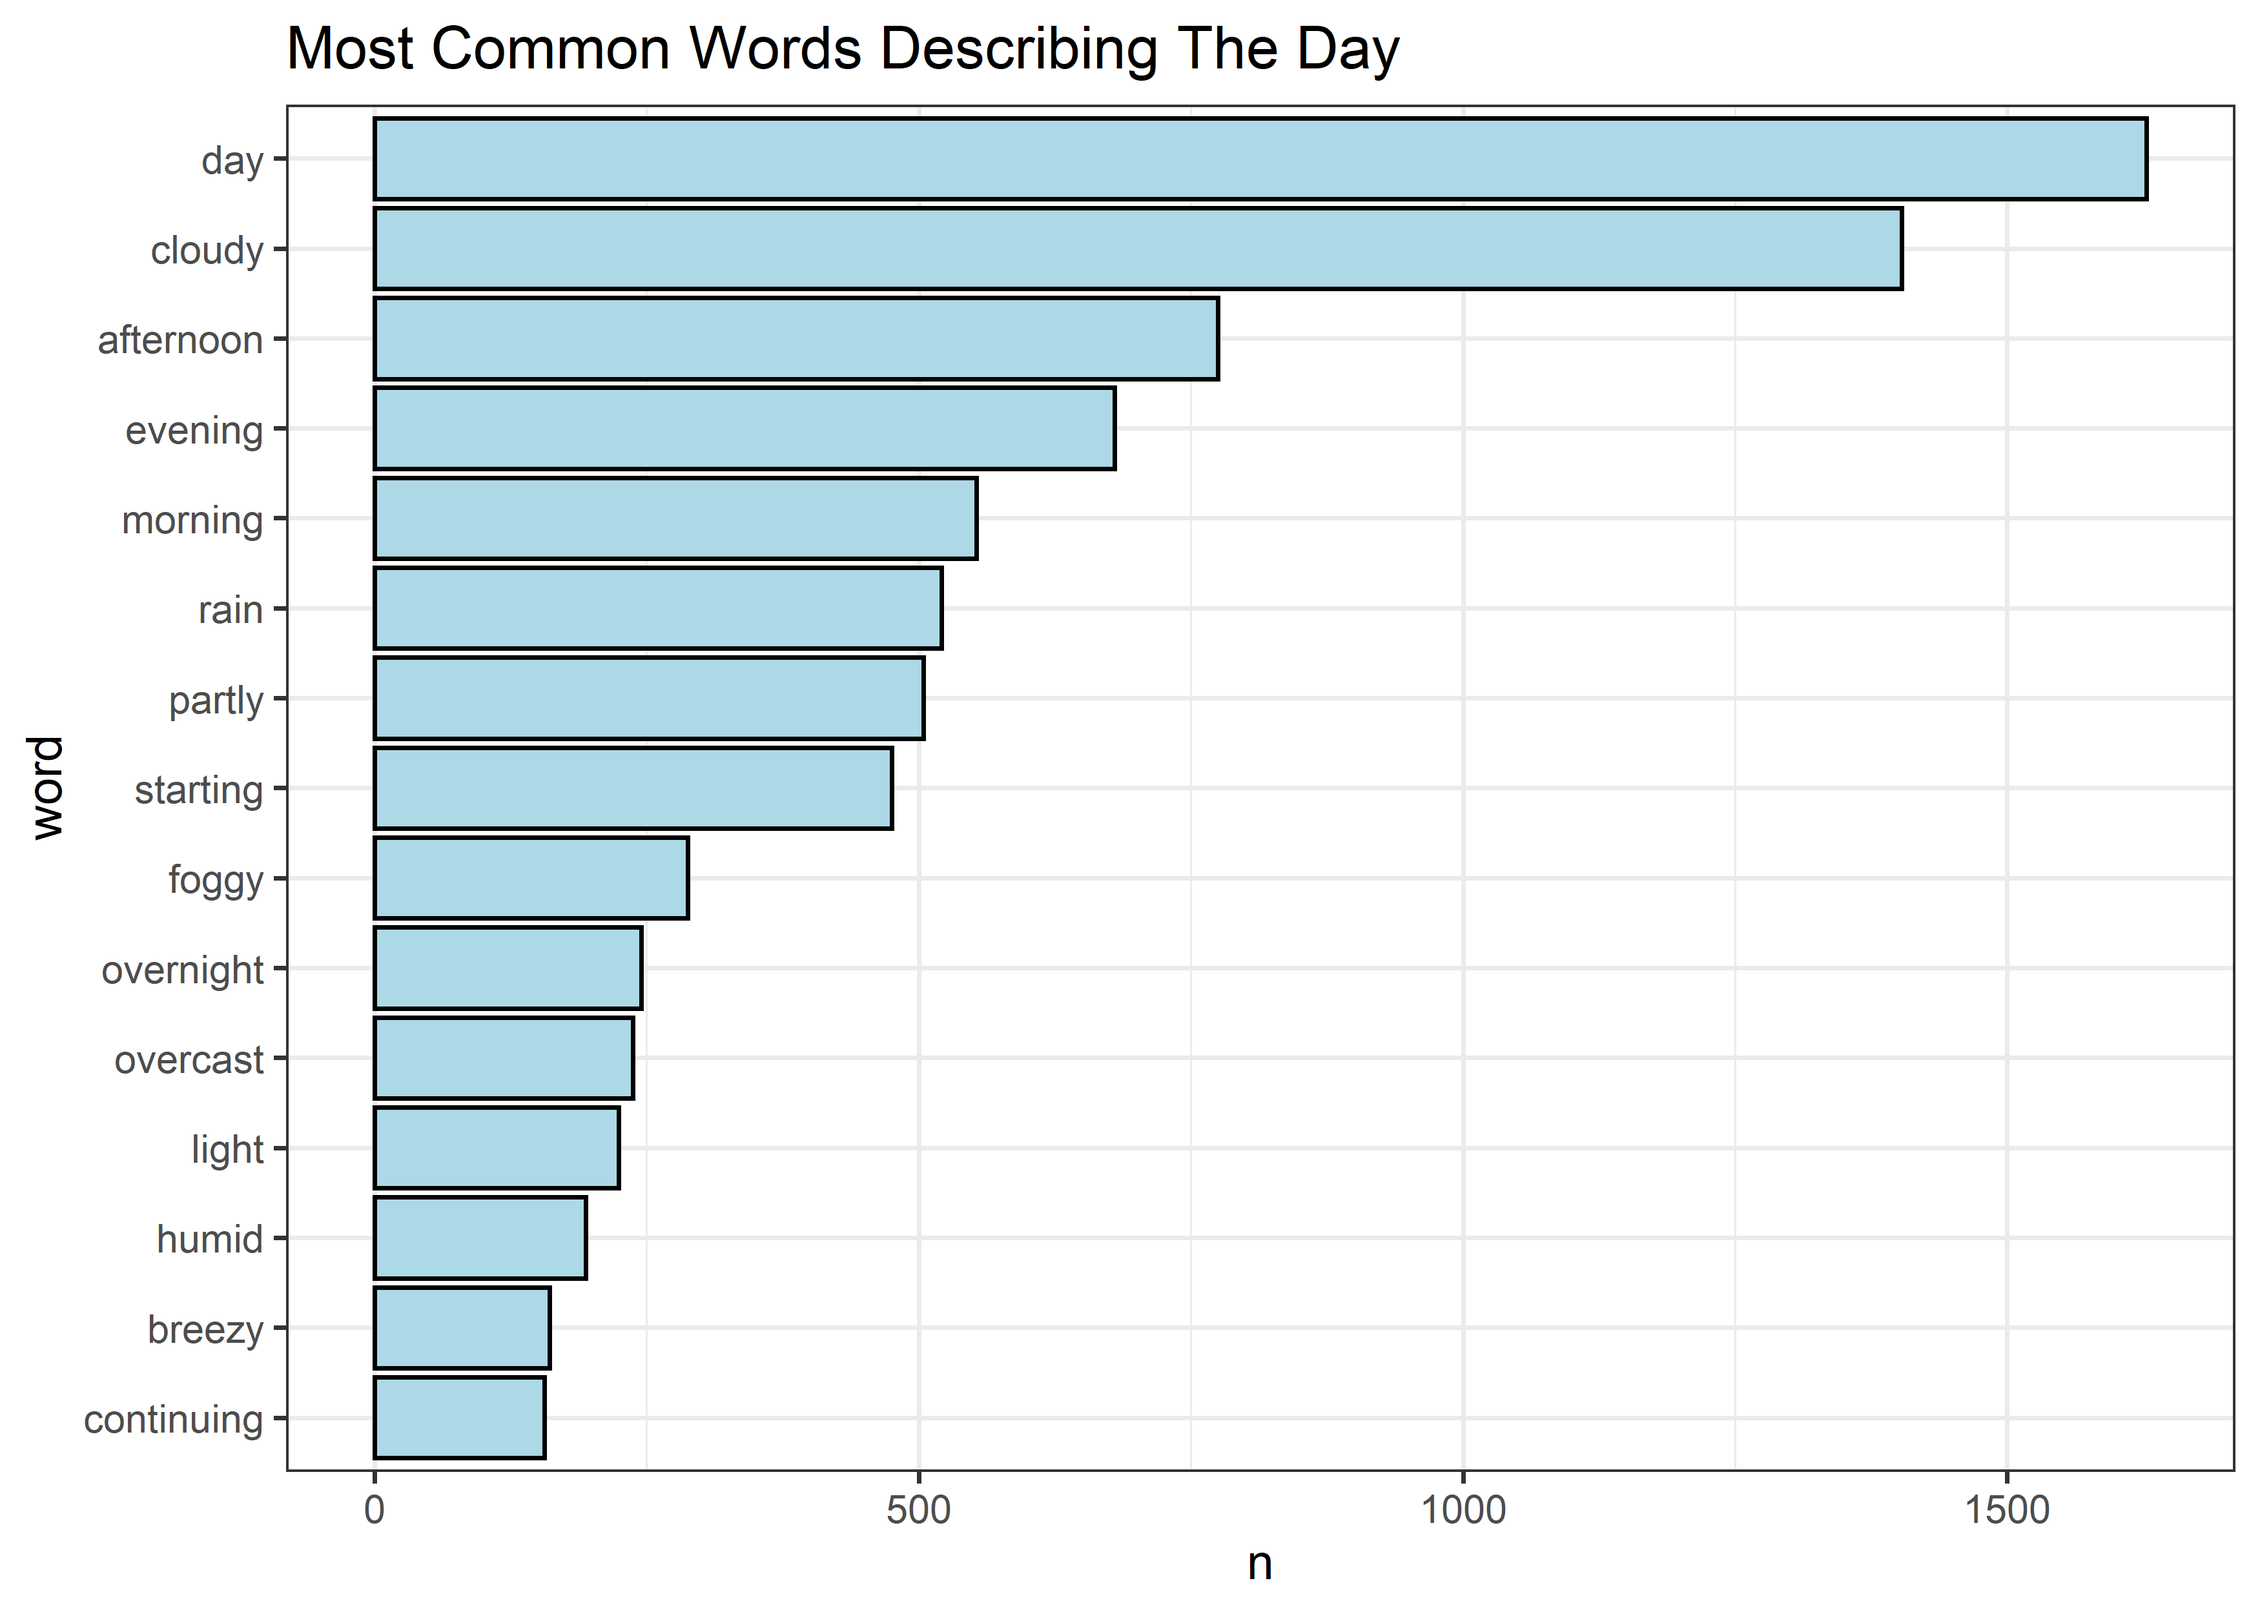
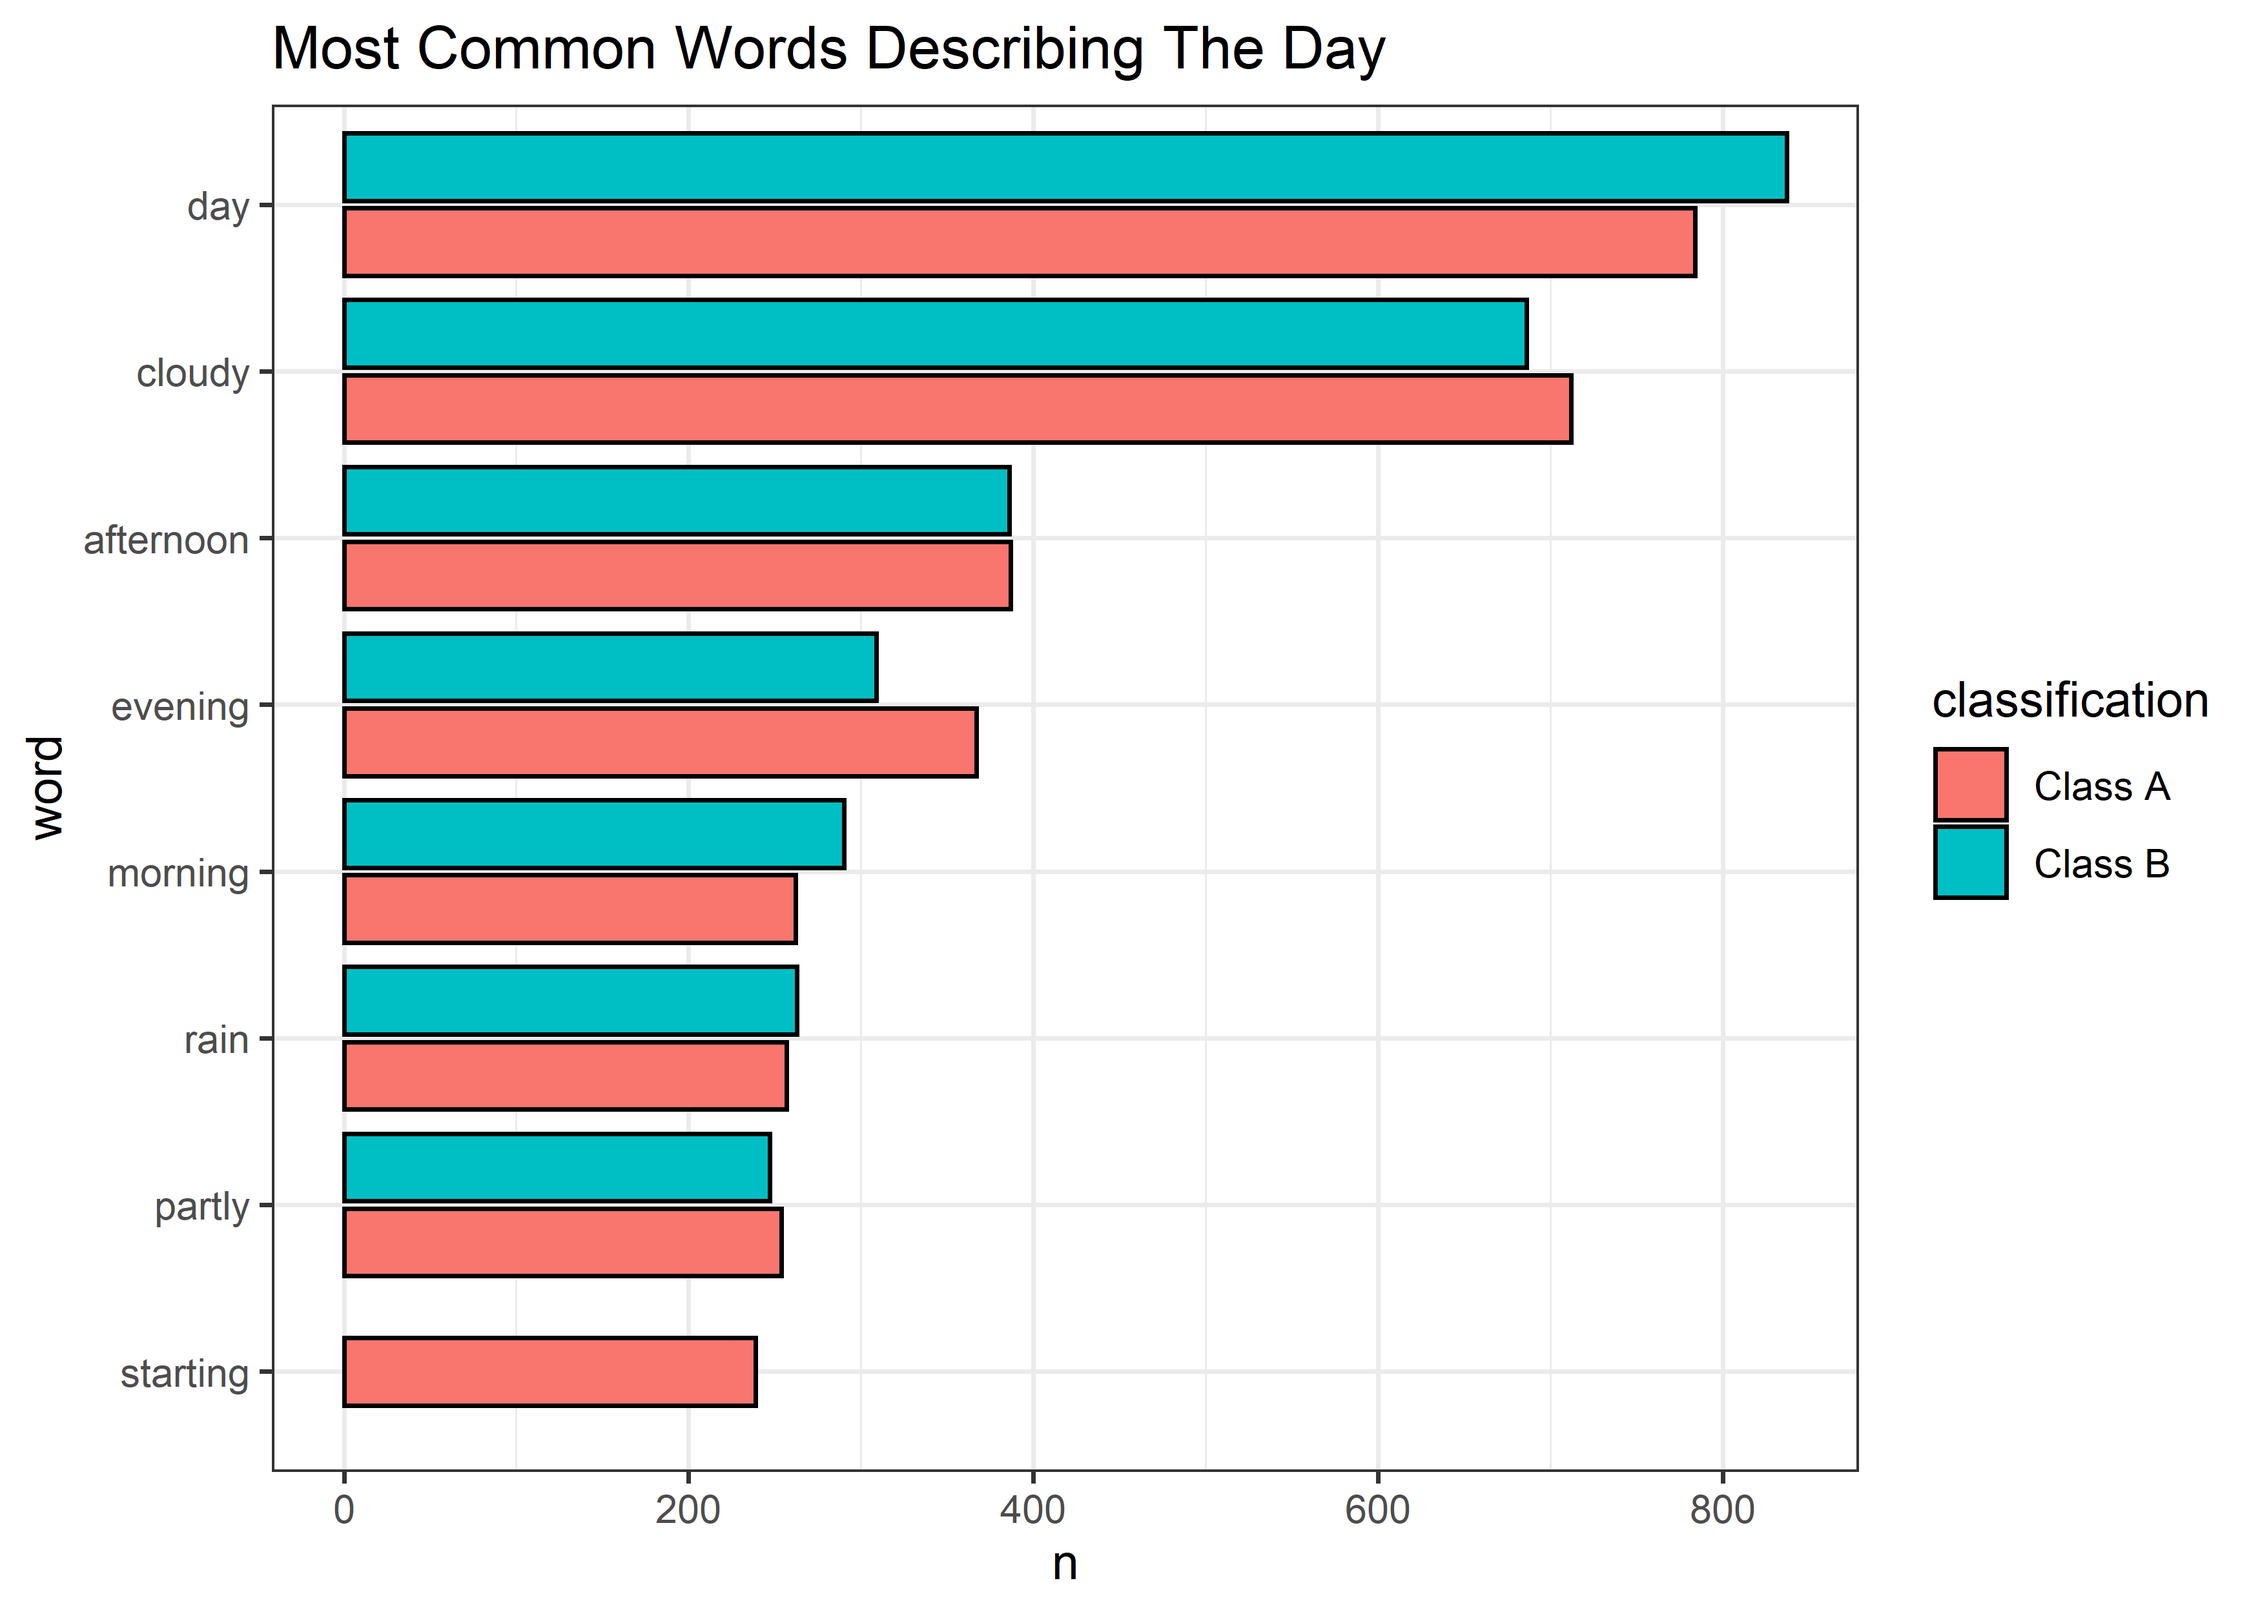
unnest tokens of observed and plotted by classification

diff --git a/09-13-22/Bigfoot.md b/09-13-22/Bigfoot.md
@@ -80,15 +80,34 @@ bigfoot %>%
 ``` r
 bigfoot %>% 
   unnest_tokens(word, summary) %>% 
-  anti_join(stop_words) %>% 
+  anti_join(stop_words) %>%
+  group_by(classification) %>% 
   count(word, sort = TRUE) %>% 
   filter(!is.na(word)) %>% 
   head(15) %>% 
   mutate(word = fct_reorder(word, n)) %>% 
-  ggplot(aes(n, word)) + geom_col(color = "black", fill = "lightblue") + 
+  ggplot(aes(n, word)) + geom_col(color = "black", position = position_dodge2(preserve = "single"), aes(fill = classification)) + 
   ggtitle(str_to_title("Most common words describing the day"))
 ```
 
     ## Joining, by = "word"
 
 ![](Bigfoot_files/figure-gfm/unnamed-chunk-4-1.png)<!-- -->
+
+``` r
+bigfoot %>% 
+  unnest_tokens(word, observed) %>% 
+  anti_join(stop_words) %>%
+  group_by(classification) %>% 
+  count(word, sort = TRUE) %>% 
+  filter(!is.na(word)) %>% 
+  head(20) %>% 
+  ungroup() %>% 
+  mutate(word = fct_reorder(word, n, sum)) %>% 
+  ggplot(aes(n, word)) + geom_col(color = "black", position = position_dodge2(preserve = "single"), aes(fill = classification)) + 
+  ggtitle(str_to_title("Most common words describing the story"))
+```
+
+    ## Joining, by = "word"
+
+![](Bigfoot_files/figure-gfm/unnamed-chunk-5-1.png)<!-- -->
